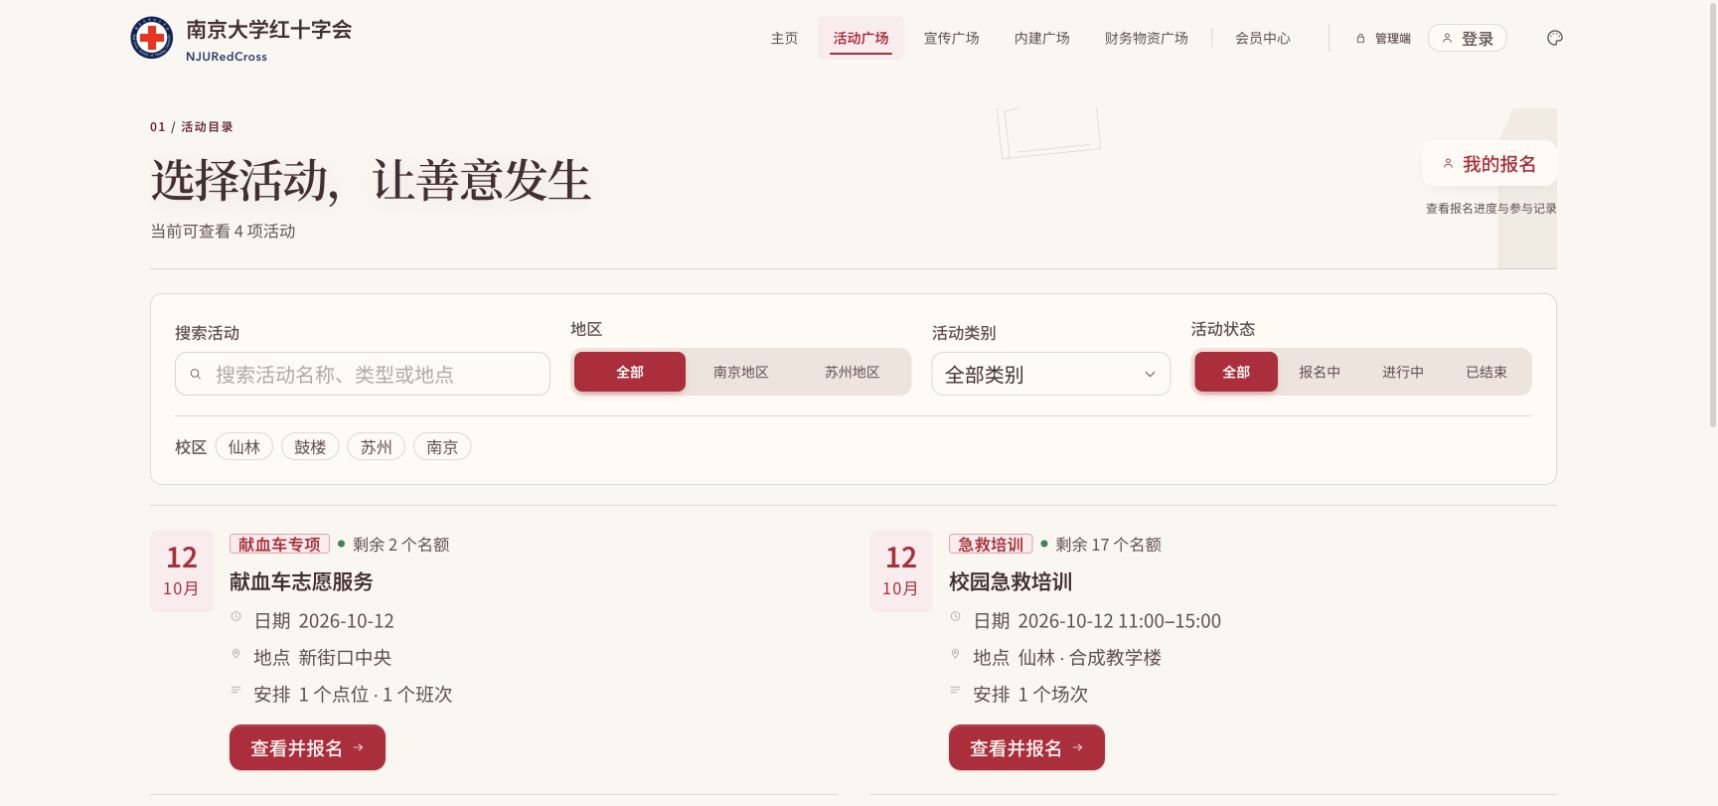
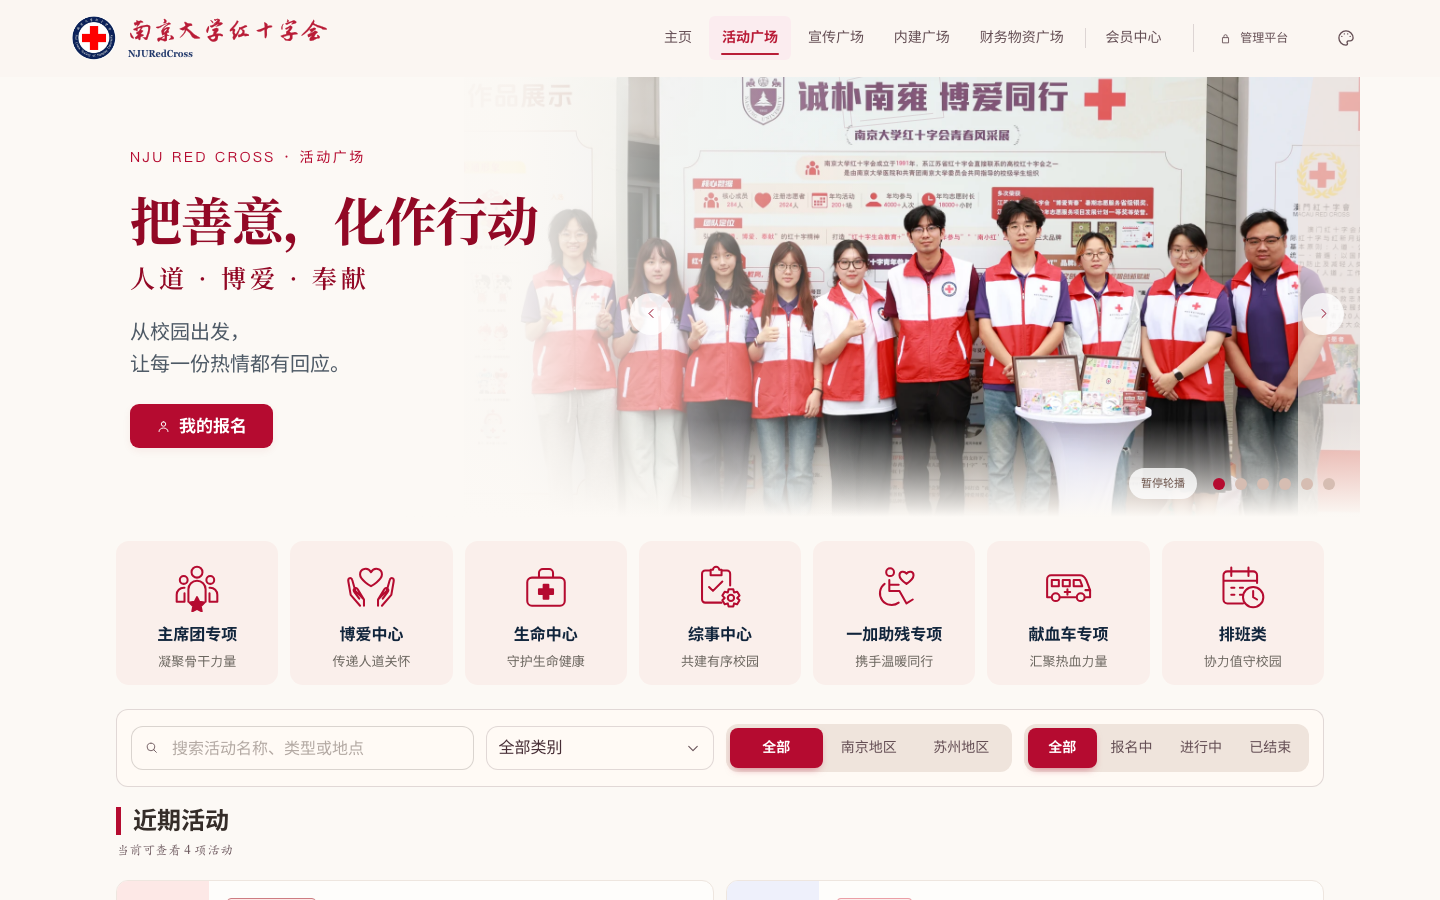
docs: refresh README page gallery and capture script

diff --git a/docs/SCREENSHOTS.md b/docs/SCREENSHOTS.md
@@ -1,14 +1,39 @@
 # 页面截图与复现
 
-README 使用本轮从真实浏览器捕获的最新界面截图，日期 **2026-10-14**。源码基线为 `ce80b2b7f7f9d1a2f90c5877d0b638102393a517`，本轮修改集中于仓库文档与呈现。
+README 使用从真实浏览器捕获的界面截图，日期 **2026-10-25**，源码基线 `7de12c8`。所有截图由脚本从本地合成演示服务器自动捕获，可用 `npm run screenshots` 重新生成。
 
 | 文件 | 页面 | 场景 |
 | --- | --- | --- |
-| [首页](assets/home-preview.png) | `/` | 匿名首页、活动专题与正式导航 |
-| [活动广场](assets/events-preview.png) | `/events` | 合成活动目录与组合筛选 |
-| [献血车日历](assets/calendar-preview.png) | `/workflow-events?type=blood&week=2026-10-12` | 合成班次与状态 |
-| [运营后台](assets/admin-preview.png) | `/console/workflow` | 合成管理员活动工作区 |
+| [首页](assets/home-preview.png) | `/` | 桌面首页：轮播、统计与千纸鹤寄语 |
+| [手机首页](assets/mobile-home-preview.png) | `/`（390×844） | 手机底部标签栏与卡片布局 |
+| [活动广场](assets/events-preview.png) | `/events` | 专题分类、组合筛选与近期活动 |
+| [手机活动广场](assets/mobile-events-preview.png) | `/events`（390×844） | 分类入口与活动列表 |
+| [献血车日历](assets/calendar-preview.png) | `/workflow-events?type=blood` | 周视图、点位与名额筛选 |
+| [宣传广场](assets/outreach-preview.png) | `/outreach` | 投稿、影像、任务与展示四个板块 |
+| [内建广场](assets/community-preview.png) | `/community` | 生日祝福与早安晚安·同行计划 |
+| [财务物资广场](assets/materials-preview.png) | `/materials` | 物资借用三步流程 |
+| [会员中心](assets/member-preview.png) | `/me` | 志愿时长与报名进度 |
+| [运营总览](assets/console-overview-preview.png) | `/console/overview` | 待办队列与活动运营 |
+| [活动管理](assets/console-events-preview.png) | `/console/events` | 名单确认与录取通知工作区 |
+| [物资管理](assets/console-materials-preview.png) | `/console/materials` | 任务队列与库存台账 |
+| [内建管理](assets/console-community-preview.png) | `/console/community` | 参加登记与人工确认 |
+| [留言墙](assets/console-messages-preview.png) | `/console/messages` | 留言发布与下架 |
+| [管理员中心](assets/console-admin-preview.png) | `/console/admin` | 账号与模块权限 |
 
-所有图中统计、人物与业务记录均来自内存演示服务器，不含真实学生、报名名单、邮箱、照片或管理员凭据。图像为浏览器原始 PNG，捕获时页面完成加载；首页暂停轮播并固定活动专题。
+## 复现步骤
 
-复现：安装依赖后运行 `npm run preview:workflow`，访问终端提示的本地地址。默认自动进入合成管理员会话，无需提供真实账号或密码；设置 PREVIEW_START_SIGNED_OUT=1 可查看匿名状态。操作仅作用于内存。截图对应的界面源文件见 public，演示数据见 scripts/preview-workflow.mjs。以合成数据更新截图时，核对姓名、联系信息、浏览器提示和加载状态，保持页面功能及信息真实可读。
+```bash
+npm ci --ignore-scripts
+npx playwright install chromium
+npm run preview:workflow        # 终端 1：启动合成演示服务器（默认 3121 端口，自动进入合成管理员会话）
+npm run screenshots             # 终端 2：重新生成 docs/assets 下的全部截图
+```
+
+可用环境变量调整行为：`SCREENSHOT_BASE_URL`（目标服务器，默认 `http://127.0.0.1:3121`）、`SCREENSHOT_WIDTH` / `SCREENSHOT_HEIGHT`（桌面视口，默认 1440×900）、`SCREENSHOT_SETTLE_MS`（渲染等待，默认 1500）。
+
+## 约定
+
+- 所有图中统计、人物与业务记录均来自内存演示服务器（`scripts/preview-workflow.mjs`），不含真实学生、报名名单、邮箱、照片或管理员凭据；操作仅作用于内存。
+- 截图统一使用桌面 1440×900 与手机 390×844 视口，捕获时启用 `prefers-reduced-motion` 暂停轮播与动效，并压缩到 1280px 宽以控制仓库体积。
+- 以合成数据更新截图时，核对姓名、联系信息、浏览器提示和加载状态，保持页面功能及信息真实可读；出现加载失败或错误提示的页面不进入 README。
+- 涉及界面结构变化的 PR 建议顺带运行 `npm run screenshots`，让 README 与最新界面保持一致。

diff --git a/CHANGELOG.md b/CHANGELOG.md
@@ -2,6 +2,8 @@
 
 ## Unreleased
 
+- 全面更新 README 界面预览与页面导览：从最新代码的合成演示环境重新捕获官网首页（桌面/手机）、活动广场（桌面/手机）、献血车日历、宣传、内建、物资、会员中心与七个管理端板块共 15 张截图；新增"页面导览"章节逐页说明公众端与管理端入口、路径和功能。新增 `scripts/capture-screenshots.mjs`（`npm run screenshots`）与 [截图说明](docs/SCREENSHOTS.md) 复现流程，截图全部来自内存演示数据。
+
 - 将 Chromium 桌面与手机全量回归拆为独立并行 CI 任务，保留全部测试、各自证据产物及质量门禁，避免合并执行超过任务时限而阻塞部署。
 - 更新开源社区入口与仓库呈现：README 对齐现行功能与 CI，替换首页及新增活动/日历/后台合成截图；完善贡献、协作、安全政策，新增治理、支持、路线图、许可与截图说明，以及结构化 Issue 表单。
 - 报名成功邮件编辑器改为明确的默认/自定义模式与纯文本邮件阅读预览，默认及冻结态隐藏编辑字段；增加变量插入、原位校验、草稿保护、版本冲突与保存状态。将模板保存和名单刷新反馈分离，保存已成功时不再误报保存失败或重复提交。仅涉及前端体验，不改变 SMTP、收件人、冻结或名单发送规则。
